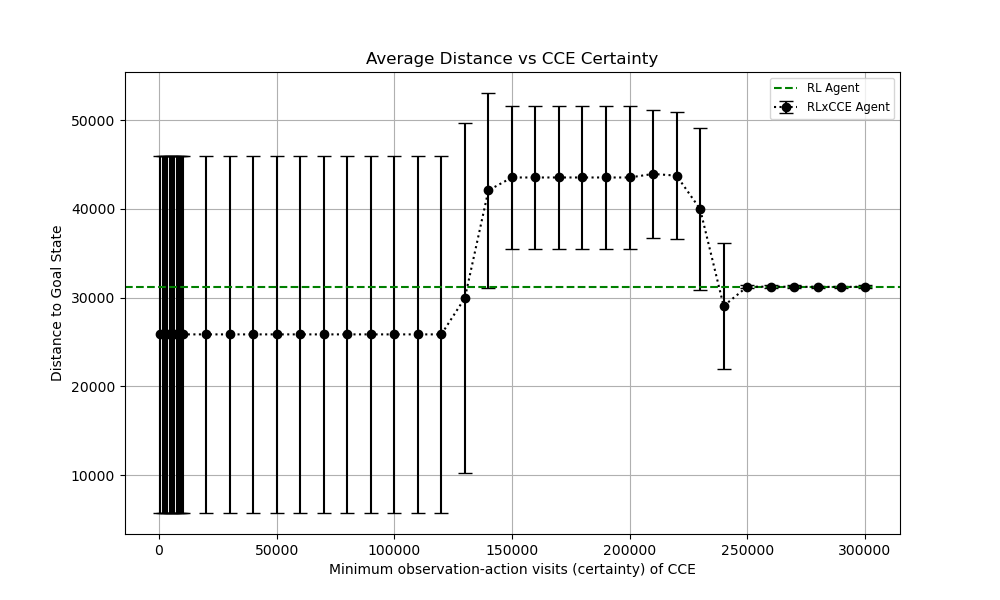
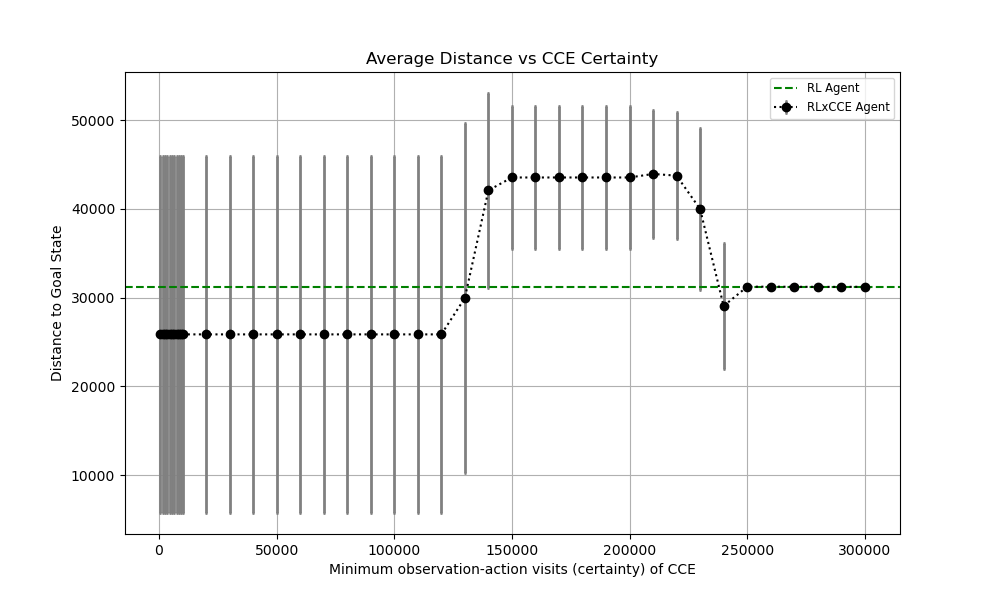
eval on graphical env

diff --git a/RL/graphical-implementation/runs/loading.py b/RL/graphical-implementation/runs/loading.py
@@ -18,10 +18,10 @@ class loading():
             self.graphs = pickle.load(f)
 
     def load_all(self, path):
-        with open(os.path.join(path, 'part_TEST_dists.pkl'), 'rb') as f:
+        with open(os.path.join(path, 'full_TEST_dists.pkl'), 'rb') as f:
             self.distances = pickle.load(f)
 
-        with open(os.path.join(path, 'part_TEST_paths.pkl'), 'rb') as f:
+        with open(os.path.join(path, 'full_TEST_paths.pkl'), 'rb') as f:
             self.paths = pickle.load(f)
 
         with open(os.path.join(path, 'SARSA_q_tables.pkl'), 'rb') as f:
@@ -30,13 +30,13 @@ class loading():
         with open(os.path.join(path, 'SARSA_cce.pkl'), 'rb') as f:
             self.cces = pickle.load(f)
 
-        with open(os.path.join(path, 'part_TEST_cce_percentages.pkl'), 'rb') as f:
+        with open(os.path.join(path, 'full_TEST_cce_percentages.pkl'), 'rb') as f:
             self.cce_precents = pickle.load(f)
 
-        with open(os.path.join(path, 'part_TEST_zetavalues.pkl'), 'rb') as f:
+        with open(os.path.join(path, 'full_TEST_zetavalues.pkl'), 'rb') as f:
             self.zetas = pickle.load(f)
 
-        with open(os.path.join(path, 'part_TEST_all_zetas.pkl'), 'rb') as f:
+        with open(os.path.join(path, 'full_TEST_all_zetas.pkl'), 'rb') as f:
             self.list_zetas = pickle.load(f)
 
         with open(os.path.join(path, 'graphs.pkl'), 'rb') as f:

diff --git a/RL/graphical-implementation/eval.py b/RL/graphical-implementation/eval.py
@@ -65,7 +65,7 @@ plt.scatter(zetas_lst, prop, color='black', alpha=0.1)
 plt.xlabel('Zeta Value')
 plt.ylabel('Percentage of CCE Actions')
 
-# plt.savefig('part_cce_percentage.png')
+plt.savefig('full_cce_percentage.png')
 
 
 
@@ -92,7 +92,9 @@ std_devs = data_exploded.groupby('Zeta').std()
 
 
 plt.figure(figsize=(10, 6))
-plt.errorbar(mean_dists.index, mean_dists['Distance'], yerr=std_devs['Distance'], fmt='o:', capsize=5, color='black', label='RLxCCE Agent')
+plt.errorbar(mean_dists.index, mean_dists['Distance'], yerr=std_devs['Distance'], 
+             fmt='o:', capsize=1, color='black', label='RLxCCE Agent',
+             elinewidth=1, capthick=1)
 
 # add green horizonatal line at 31229.347695 with std 160.103771 with label 'RL Agent'
 plt.axhline(y=31229.347695, color='green', linestyle='--', label='RL Agent')
@@ -102,10 +104,11 @@ plt.axhline(y=31229.347695, color='green', linestyle='--', label='RL Agent')
 plt.title('Average Distance vs CCE Certainty')
 plt.xlabel('Minimum observation-action visits (certainty) of CCE')
 plt.ylabel('Distance to Goal State')
+plt.xlim(12000, 305000)
 plt.grid(True)
 plt.legend(loc='upper right', fontsize='small')
 
-# plt.savefig('part_distance_vs_cce.png')
+plt.savefig('clipped_full_distance_vs_cce.png')
 
 
 
